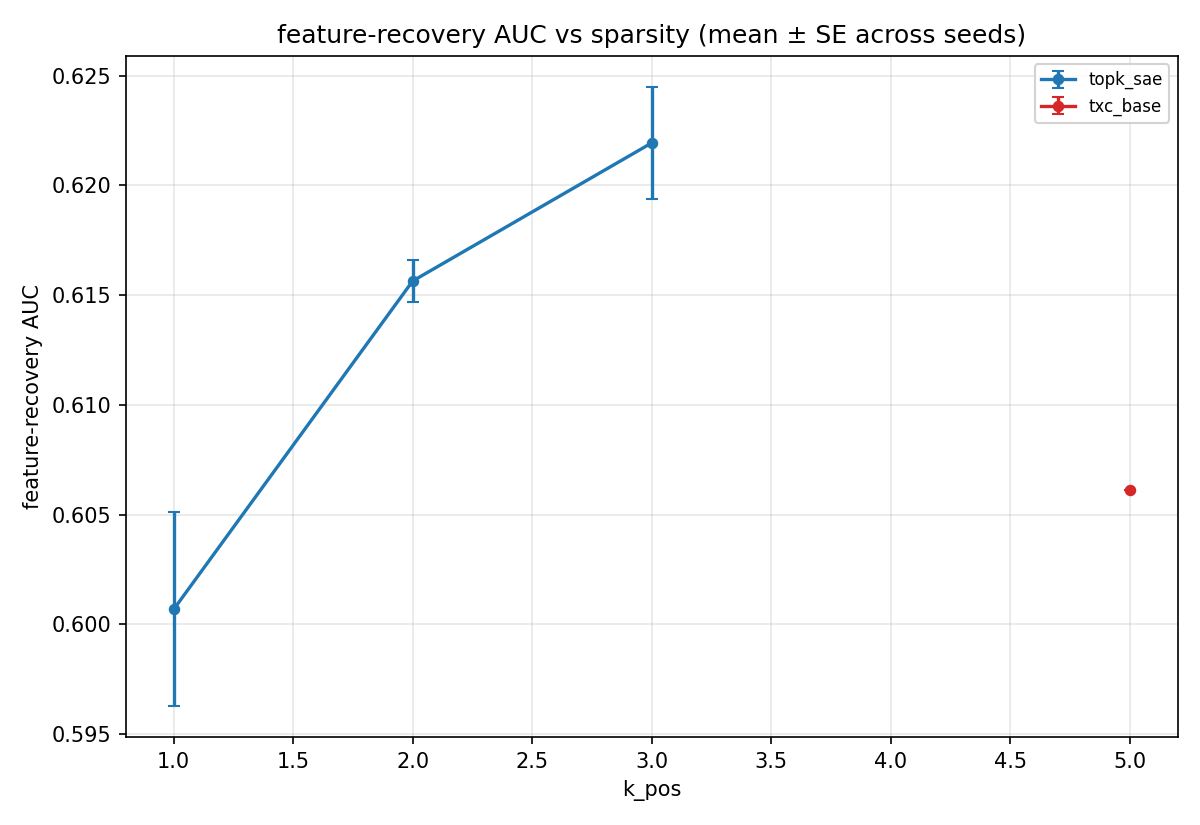
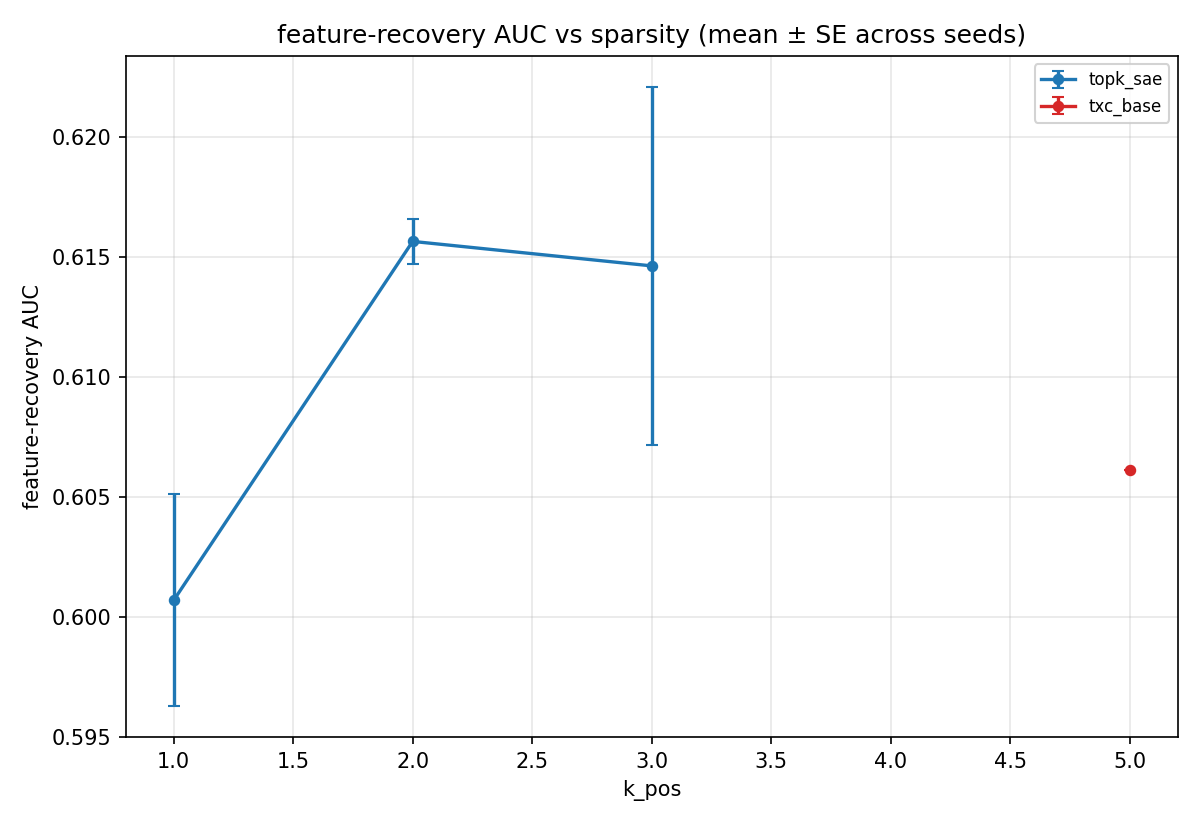
c1+c2 paper auto: refresh synthetic bundles (c1=, c2= leaderboard rows)
Auto-generated by purified/scripts/synthetic_paper_renderer.py.
Inputs: results/leaderboard.jsonl filtered to component in (c1,c2)
with eval_cfg._full_suite=true (the c{1,2}_synthetic_*_full driver flag).

diff --git a/purified/docs/components/c2_paper_results.md b/purified/docs/components/c2_paper_results.md
@@ -1,6 +1,6 @@
 # C2 Synthetic Coupled — paper-ready results (auto-generated)
 
-_Last refreshed: 2026-05-06T22:16:28+00:00_
+_Last refreshed: 2026-05-06T22:46:33+00:00_
 
 ## Setup
 
@@ -10,13 +10,13 @@ _Last refreshed: 2026-05-06T22:16:28+00:00_
 - Companion: eAUC — recovery of the M=20 emission directions.
 - Driver: `experiments/c2_synthetic_coupled_full/run.py` (isolated `act_cache_key` via `temp_bench.data.toy_full.api:coupled_hmm`).
 
-Currently 9 cells across 2 (arch, T) configurations; seeds-per-cell range = [1, 2].
+Currently 10 cells across 2 (arch, T) configurations; seeds-per-cell range = [1, 3].
 
 ## gAUC headline (peak gAUC over k_pos)
 
 | arch | T | k\* | gAUC (mean ± SE) | n seeds |
 |------|---|----|---------------------------|---------|
-| `topk_sae` | — | 2 | 0.990 ± 0.000 | 2 |
+| `topk_sae` | — | 2 | 0.990 ± 0.000 | 3 |
 | `txc_base` | — | 5 | 0.320 ± 0.000 | 1 |
 
 ![c2_gauc_vs_k](c2_paper_assets/c2_gauc_vs_k.png)
@@ -25,7 +25,7 @@ Currently 9 cells across 2 (arch, T) configurations; seeds-per-cell range = [1, 
 
 | arch | T | k\* | eAUC (mean ± SE) | n seeds |
 |------|---|----|---------------------------|---------|
-| `topk_sae` | — | 2 | 0.874 ± 0.000 | 2 |
+| `topk_sae` | — | 2 | 0.859 ± 0.016 | 3 |
 | `txc_base` | — | 5 | 0.271 ± 0.000 | 1 |
 
 ![c2_eauc_vs_k](c2_paper_assets/c2_eauc_vs_k.png)
@@ -41,5 +41,5 @@ Currently 9 cells across 2 (arch, T) configurations; seeds-per-cell range = [1, 
 
 | arch (T) | k=1 | k=2 | k=5 |
 |---|---|---|---|
-| `topk_sae` | 0.312 | 0.874 | — |
+| `topk_sae` | 0.312 | 0.859 | — |
 | `txc_base` | — | — | 0.271 |

diff --git a/purified/docs/components/c1_paper_results.md b/purified/docs/components/c1_paper_results.md
@@ -1,6 +1,6 @@
 # C1 Synthetic TopK — paper-ready results (auto-generated)
 
-_Last refreshed: 2026-05-06T22:16:27+00:00_
+_Last refreshed: 2026-05-06T22:46:32+00:00_
 
 ## Setup
 
@@ -9,13 +9,13 @@ _Last refreshed: 2026-05-06T22:16:27+00:00_
 - Metric: feature-recovery AUC against the 20 ground-truth orthogonal directions (per-feature max cosine ≥ τ, integrated over τ ∈ [0, 1]).
 - Driver: `experiments/c1_synthetic_topk_full/run.py` (routes through `temp_bench.data.toy_full.api`, isolated from agent_filler's `toy_markov_n20_d40` cache via distinct `act_cache_key`).
 
-Currently 15 cells across 2 (arch, T) configurations; seeds-per-cell range = [1, 2].
+Currently 16 cells across 2 (arch, T) configurations; seeds-per-cell range = [1, 6].
 
 ## Headline (peak AUC over k_pos)
 
 | arch | T | k\* | AUC (mean ± SE) | n seeds |
 |------|---|----|---------------------------|---------|
-| `topk_sae` | — | 3 | 0.622 ± 0.003 | 2 |
+| `topk_sae` | — | 2 | 0.616 ± 0.001 | 6 |
 | `txc_base` | — | 5 | 0.606 ± 0.000 | 1 |
 
 ## AUC vs k_pos
@@ -26,5 +26,5 @@ Currently 15 cells across 2 (arch, T) configurations; seeds-per-cell range = [1,
 
 | arch (T) | k=1 | k=2 | k=3 | k=5 |
 |---|---|---|---|---|
-| `topk_sae` | 0.601 | 0.616 | 0.622 | — |
+| `topk_sae` | 0.601 | 0.616 | 0.615 | — |
 | `txc_base` | — | — | — | 0.606 |
